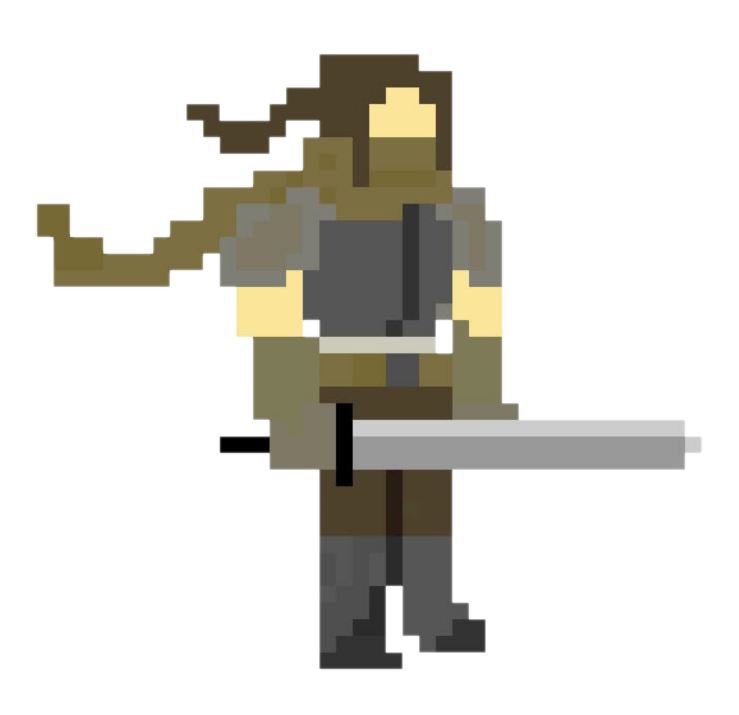
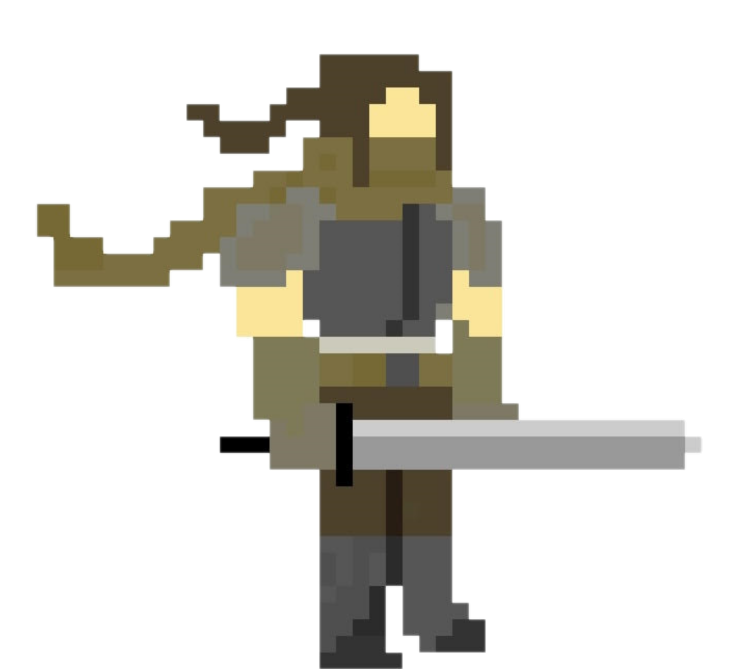
Added attack animation keyframes for hero attack

Changed region(s): [[0.0311, 0.0897, 0.9648, 1.0], [0.4357, 0.0598, 0.5602, 0.0897], [0.6536, 0.299, 0.6847, 0.3288]]

diff --git a/src/index.css b/src/index.css
@@ -374,13 +374,31 @@ a:hover{
   }
 
   50% {
-    transform: scale(1, 1.02);
+    transform: scale(1, 1.03);
     /* transform: translateY(0); */
   }
 
   to {
     transform:scale (1, 1);
     /* transform: translateY(0); */
+  }
+}
+
+@keyframes heroAttackAni {
+  from{
+    transform: translateX(-60px);
+  }
+
+10%{
+  transform: translateX(0px);
+}
+
+50%{
+  transform: translateX(0px);
+}
+
+  to{
+    transform: translateX(-100px);
   }
 }
 .static-display{
@@ -392,13 +410,12 @@ a:hover{
   
 }
 
-
-
 .attack-display{
+  animation: heroAttackAni 1s linear 1 normal none;
   width: 150px;
   height: 150px;
   position: relative;
-  left: 50px;
+  left: 120px;
   top: 25px;
 }
 
